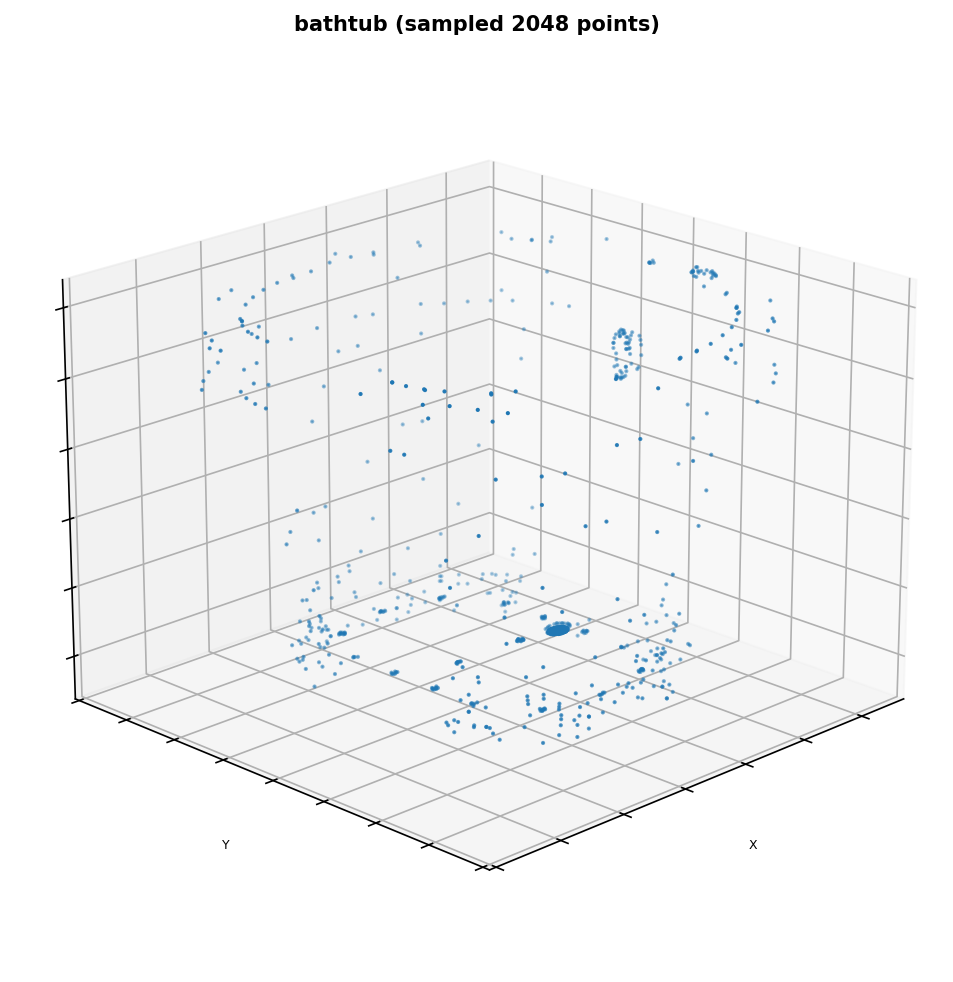
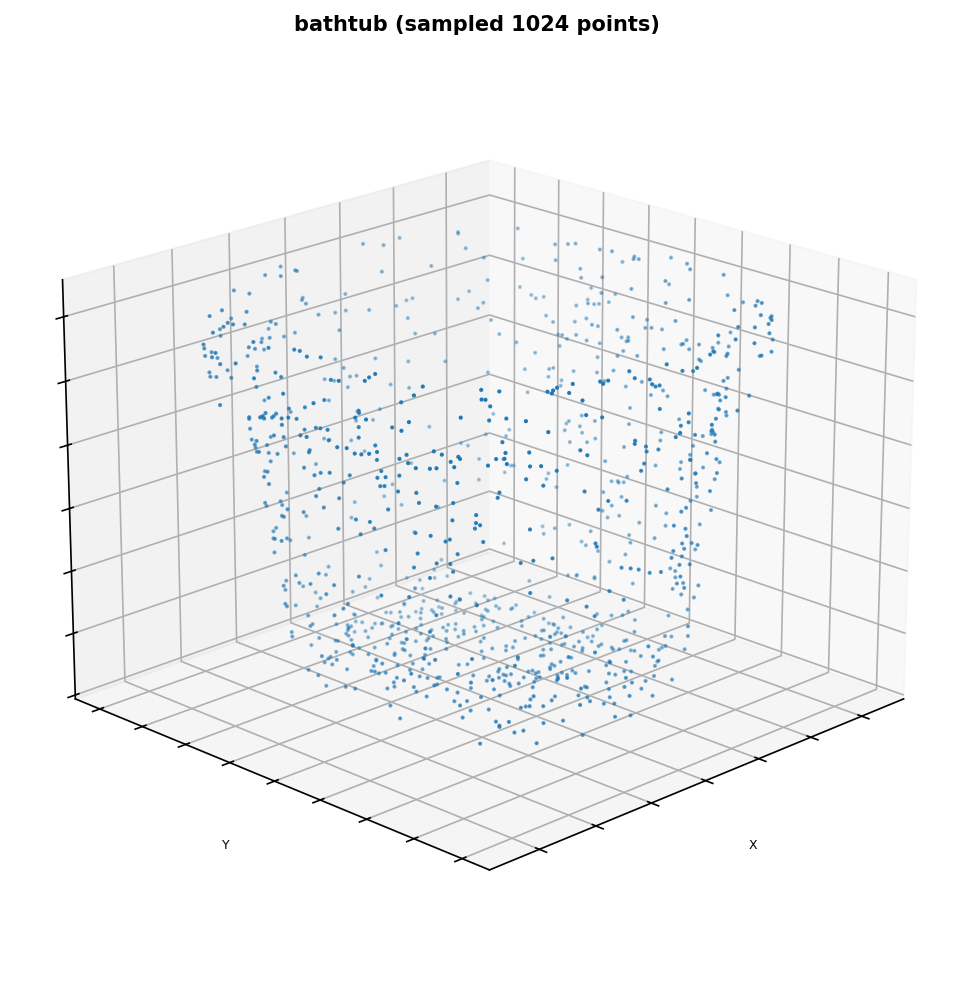
[fix] model net transformation

diff --git a/src/main_modelnet.py b/src/main_modelnet.py
@@ -1,0 +1,166 @@
+from test import predict
+from train import (
+    train_model,
+    plot_losses,
+    plot_accuracies
+)
+from models.pointnet import PointNetClassification
+from utils.utils import preprocess_dataset
+from utils.visualization_utils import (
+    visualize_point_cloud_matplotlib,
+    visualize_multiple_point_clouds
+)
+from torch.utils.data import random_split
+from torch_geometric.loader import DataLoader
+from torch_geometric.datasets import ModelNet
+import torch_geometric.transforms as T
+import torch.optim as optim
+import torch
+import time
+from pathlib import Path
+
+
+def load_data(config):
+
+    print("Loading data...")
+
+    transform = T.Compose([
+        T.SamplePoints(config["num_points"]),        # mesh -> point cloud (pos: [N,3])
+        T.NormalizeScale(),                          # center + scale to unit sphere
+    ])
+
+    # Load ModelNet10 dataset
+    train_dataset = ModelNet(root=config["data_path"], name='10', train=True, transform=transform)
+    test_dataset = ModelNet(root=config["data_path"], name='10', train=False, transform=transform)
+
+    # split train dataset into train and val
+    l_data = len(train_dataset)
+    train_dataset, val_dataset = random_split(
+        train_dataset,
+        [round((1 - config["validation_split"]) * l_data),
+         round(config["validation_split"] * l_data)],
+        generator=torch.Generator().manual_seed(1)
+    )
+
+    train_loader = DataLoader(
+        train_dataset, batch_size=config["batch_size"], shuffle=True, drop_last=True)
+    val_loader = DataLoader(
+        val_dataset, batch_size=config["batch_size"], shuffle=False, drop_last=False)
+    test_loader = DataLoader(
+        test_dataset, batch_size=config["batch_size"], shuffle=False, drop_last=False)
+
+    return train_dataset, val_dataset, test_dataset, train_loader, val_loader, test_loader
+
+
+def visualize_examples(dataset, class_names, config, sample_idx=10):
+
+    # Visualize a single point cloud from the training set
+    print(f"Visualizing a single point cloud from the training set (sampled {config['num_points']} points)...")
+
+    sample = dataset[sample_idx]
+    visualize_point_cloud_matplotlib(
+        sample.pos.numpy(),
+        label=f'{class_names[sample.y.item()]} (sampled {config["num_points"]} points)',
+        figsize=(10, 8),
+        output_path=config["vis_single_example_path"]
+    )
+
+    # Visualize one example from each class
+    print("Creating visualization grid for all classes (with transformations)...")
+
+    # Find one example from each class in the transformed dataset
+    class_examples = {}
+
+    for i in range(len(dataset)):
+        data = dataset[i]
+        class_idx = data.y.item()
+        if class_idx not in class_examples:
+            class_examples[class_idx] = data
+        if len(class_examples) == 10:
+            break
+
+    visualize_multiple_point_clouds(
+        point_clouds=[class_examples[i].pos.numpy() for i in range(10)],
+        labels=[class_names[i] for i in range(10)],
+        n_cols=5,
+        figsize=(20, 8),
+        output_path=config["vis_all_classes_path"],
+        title='ModelNet10 Dataset - Example from Each Class (transformed)'
+    )
+
+
+if __name__ == "__main__":
+
+    start_time = time.time()
+
+    parent_dir = Path(__file__).resolve().parent.parent
+
+    config = {
+        "batch_size": 32,
+        "validation_split": 0.2,
+        "data_path": parent_dir / 'data' / 'modelnet10',
+        "vis_single_example_path": parent_dir / 'figs' / 'modelnet10_single_example.png',
+        "vis_all_classes_path": parent_dir / 'figs' / 'modelnet10_all_classes.png',
+        "num_classes": 10,
+        "num_channels": 3,
+        "dropout": 0.3,
+        "learning_rate": 0.001,
+        "num_epochs": 10,
+        "num_points": 1024,
+    }
+
+    # ModelNet10 class names
+    CLASS_NAMES = ['bathtub', 'bed', 'chair', 'desk', 'dresser',
+                   'monitor', 'night_stand', 'sofa', 'table', 'toilet']
+
+    # data
+    train_dataset_sampled, val_dataset_sampled, test_dataset_sampled, \
+        train_loader, val_loader, test_loader = load_data(config)
+
+    visualize_examples(train_dataset_sampled, CLASS_NAMES, config)
+
+    # model training
+    model = PointNetClassification(
+        num_classes=config["num_classes"],
+        input_channels=config["num_channels"],
+        dropout=config["dropout"]
+    )
+    optimizer = optim.Adam(model.parameters(), lr=config["learning_rate"])
+
+    training_start_time = time.time()
+    train_loss_history, val_loss_history, train_acc_history, val_acc_history = train_model(
+        model=model,
+        optimizer=optimizer,
+        train_loader=train_loader,
+        val_loader=val_loader,
+        config=config,
+        model_save_path=parent_dir / 'model_objects' / 'pointnet.pth'
+    )
+    training_time = time.time() - training_start_time
+
+    plot_losses(
+        train_loss_history,
+        val_loss_history,
+        save_to_file=parent_dir / 'figs' / 'training_validation_loss.png'
+    )
+    plot_accuracies(
+        train_acc_history,
+        val_acc_history,
+        save_to_file=parent_dir / 'figs' / 'training_validation_accuracy.png'
+    )
+
+    # test set evaluation
+    test_predictions = predict(model, test_loader)
+    test_labels = torch.cat([data.y for data in test_loader.dataset], dim=0)
+    test_accuracy = (test_predictions == test_labels).sum(
+    ).item() / test_labels.size(0)
+    print(f"\nTest Accuracy: {test_accuracy:.4f}")
+
+    total_time = time.time() - start_time
+
+    print("\n" + "="*60)
+    print("EXECUTION TIME SUMMARY")
+    print("="*60)
+    print(f"Training time: {training_time:.2f} seconds ({training_time/60:.2f} minutes)")
+    print(f"Total execution time: {total_time:.2f} seconds ({total_time/60:.2f} minutes)")
+    print("="*60)
